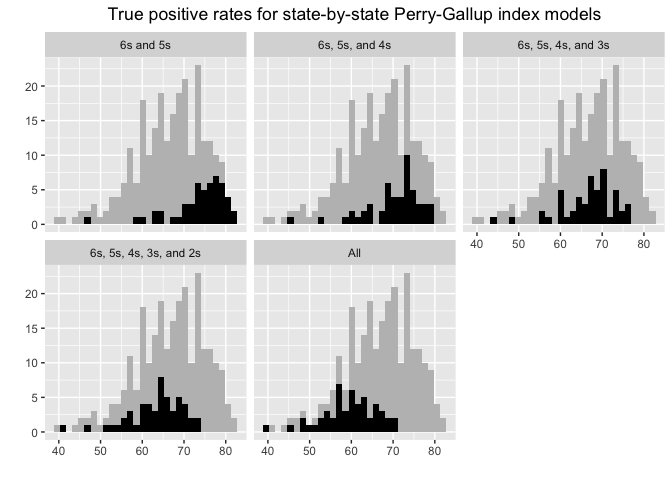
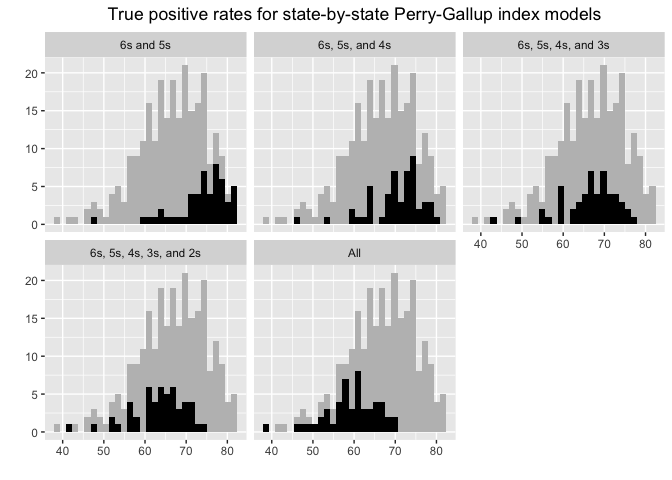
Updated state_models to correct for miscodings in load.R.

diff --git a/state_models.md b/state_models.md
@@ -1,6 +1,6 @@
 Analysis Part II - State Models
 ================
-February 28, 2018
+March 5, 2018
 
 -   [Introduction](#introduction)
 -   [Vote Intent](#vote-intent)
@@ -42,7 +42,7 @@ Due to smaller sample sizes in some states in the 2016 CCES, I may choose to dro
 | Alaska               |    538|
 | Arizona              |   6671|
 | Arkansas             |   2389|
-| California           |  24927|
+| California           |  24928|
 | Colorado             |   4532|
 | Connecticut          |   3197|
 | Delaware             |   1025|
@@ -58,19 +58,19 @@ Due to smaller sample sizes in some states in the 2016 CCES, I may choose to dro
 | Kentucky             |   3672|
 | Louisiana            |   3037|
 | Maine                |   1619|
-| Maryland             |   4755|
-| Massachusetts        |   5313|
+| Maryland             |   4756|
+| Massachusetts        |   5314|
 | Michigan             |   8561|
 | Minnesota            |   4585|
 | Mississippi          |   1858|
-| Missouri             |   5673|
+| Missouri             |   5675|
 | Montana              |    965|
 | Nebraska             |   1652|
 | Nevada               |   2993|
 | New Hampshire        |   1617|
 | New Jersey           |   6985|
 | New Mexico           |   1865|
-| New York             |  14789|
+| New York             |  14790|
 | North Carolina       |   7707|
 | North Dakota         |    582|
 | Ohio                 |  10764|
@@ -80,7 +80,7 @@ Due to smaller sample sizes in some states in the 2016 CCES, I may choose to dro
 | Rhode Island         |    968|
 | South Carolina       |   3632|
 | South Dakota         |    745|
-| Tennessee            |   4892|
+| Tennessee            |   4893|
 | Texas                |  17574|
 | Utah                 |   2215|
 | Vermont              |    627|
@@ -107,12 +107,12 @@ Election Predictions
 
 Clinton's chances are overestimated by an average of 2.43 points, across all vote intent model types. Breaking it down by type:
 
-| model                                                        |  predicted - validated|
-|:-------------------------------------------------------------|----------------------:|
-| Already voted + will definitely vote                         |               2.411961|
-| Already voted + will definitely or probably vote             |               2.628627|
-| Already voted + will definitely or probably vote + undecided |               2.392745|
-| All respondents                                              |               2.288039|
+| model                                                        |  mean\_error|       MSE|
+|:-------------------------------------------------------------|------------:|---------:|
+| Already voted + will definitely vote                         |     2.411961|  39.20252|
+| Already voted + will definitely or probably vote             |     2.628627|  46.47919|
+| Already voted + will definitely or probably vote + undecided |     2.392745|  39.87361|
+| All respondents                                              |     2.288039|  49.19410|
 
 Vote Intent + Vote History
 ==========================
@@ -133,12 +133,12 @@ Election Predictions
 
 Looks like this overestimates Clinton's chances a bit. The average difference between a state's predicted margin and margin among validated voters is a little over 2.5 points in favor of Clinton, across all model types. Looking at specific model types:
 
-| model                                                        |  predicted - validated|
-|:-------------------------------------------------------------|----------------------:|
-| Already voted + will definitely vote                         |               2.491078|
-| Already voted + will definitely or probably vote             |               2.634608|
-| Already voted + will definitely or probably vote + undecided |               2.563137|
-| All respondents                                              |               2.560196|
+| model                                                        |  mean\_error|       MSE|
+|:-------------------------------------------------------------|------------:|---------:|
+| Already voted + will definitely vote                         |     2.491078|  43.18726|
+| Already voted + will definitely or probably vote             |     2.634608|  46.69294|
+| Already voted + will definitely or probably vote + undecided |     2.563137|  42.54534|
+| All respondents                                              |     2.560196|  47.25696|
 
 Perry-Gallup Index
 ==================
@@ -157,13 +157,13 @@ Election Predictions
 
 ![](state_models_files/figure-markdown_github/unnamed-chunk-13-1.png)
 
-| model                  |  predicted - validated|
-|:-----------------------|----------------------:|
-| 6s and 5s              |              -2.349608|
-| 6s, 5s, and 4s         |               1.449804|
-| 6s, 5s, 4s, and 3s     |               2.405490|
-| 6s, 5s, 4s, 3s, and 2s |               2.397255|
-| All                    |               2.282157|
+| model                  |  mean\_error|       MSE|
+|:-----------------------|------------:|---------:|
+| 6s and 5s              |    -2.349608|  84.97869|
+| 6s, 5s, and 4s         |     1.449804|  44.02442|
+| 6s, 5s, 4s, and 3s     |     2.405490|  48.38613|
+| 6s, 5s, 4s, 3s, and 2s |     2.397255|  50.76708|
+| All                    |     2.282157|  48.79396|
 
 Logistic Regression
 ===================
